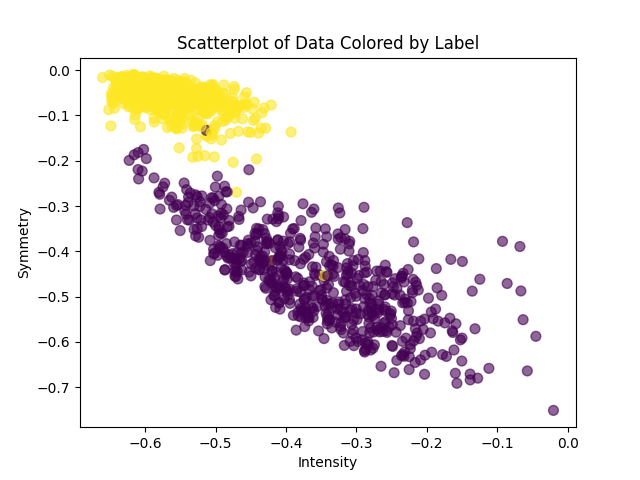
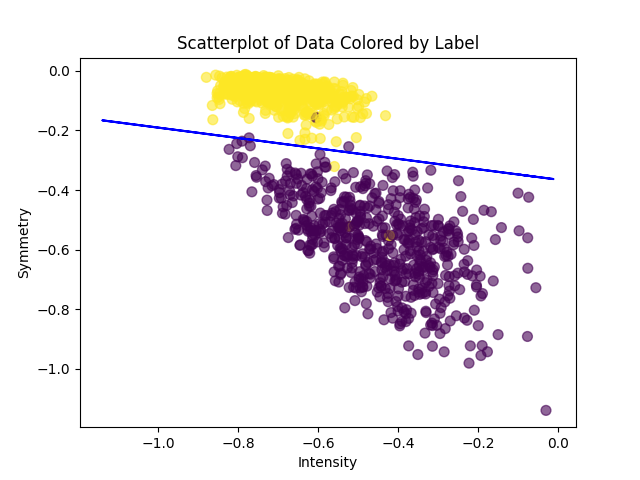
Visualization of line

diff --git a/HW2/code/main.py b/HW2/code/main.py
@@ -31,7 +31,7 @@ def visualize_features(X, y):
     plt.ylabel('Symmetry')
     plt.title('Scatterplot of Data Colored by Label')
 
-    # Show plot
+    # Save plot
     plt.savefig('scatterplot.png')
     plt.close()
     # For each pair (X[1, i], X[2, i]), it will be colored according to the label y[i].
@@ -39,7 +39,7 @@ def visualize_features(X, y):
 
     ### END YOUR CODE
 
-def visualize_results(X, y):
+def visualize_result(X, y, W):
     '''This function is used to plot a 2-D scatter plot of training features. 
 
     Args:
@@ -56,13 +56,15 @@ def visualize_results(X, y):
 	# the intensity of each sample, X[1] will be the symmetry of each sample.
     X = X.T
     scatter = plt.scatter(X[0], X[1], c=y, cmap='viridis', s=50, alpha=0.6)
+    b, w1, w2 = W
+    x2 = -(w1 * X[1] + b) / w2
+    plt.plot(X[1], x2, "b-")
 
     # Add labels and title
     plt.xlabel('Intensity')
     plt.ylabel('Symmetry')
     plt.title('Scatterplot of Data Colored by Label')
-
-    # Show plot
+    # Save plot
     plt.savefig('scatterplot.png')
     plt.close()
     # For each pair (X[1, i], X[2, i]), it will be colored according to the label y[i].
@@ -173,10 +175,10 @@ def main():
     ### END YOUR CODE
 
     # Visualize the your 'best' model after training.
-    visualize_result(train_X[:, 1:3], train_y, logisticR_classifier.get_params())
 
     ### YOUR CODE HERE
-
+    logisticR_classifier.fit_SGD(train_X, train_y)
+    visualize_result(train_X[:, 1:3], train_y, logisticR_classifier.get_params())
     ### END YOUR CODE
 
     # Use the 'best' model above to do testing. Note that the test data should be loaded and processed in the same way as the training data.

diff --git a/HW2/code/DataReader.py b/HW2/code/DataReader.py
@@ -65,9 +65,6 @@ def prepare_X(raw_X):
 	### YOUR CODE HERE
     X = np.array([bias, intensity_field, symmetry_field]).T
 	### END YOUR CODE
-    for i, x in enumerate(X):
-         X[i] = x/np.linalg.norm(x)
-         
     return X
 
 def prepare_y(raw_y):
